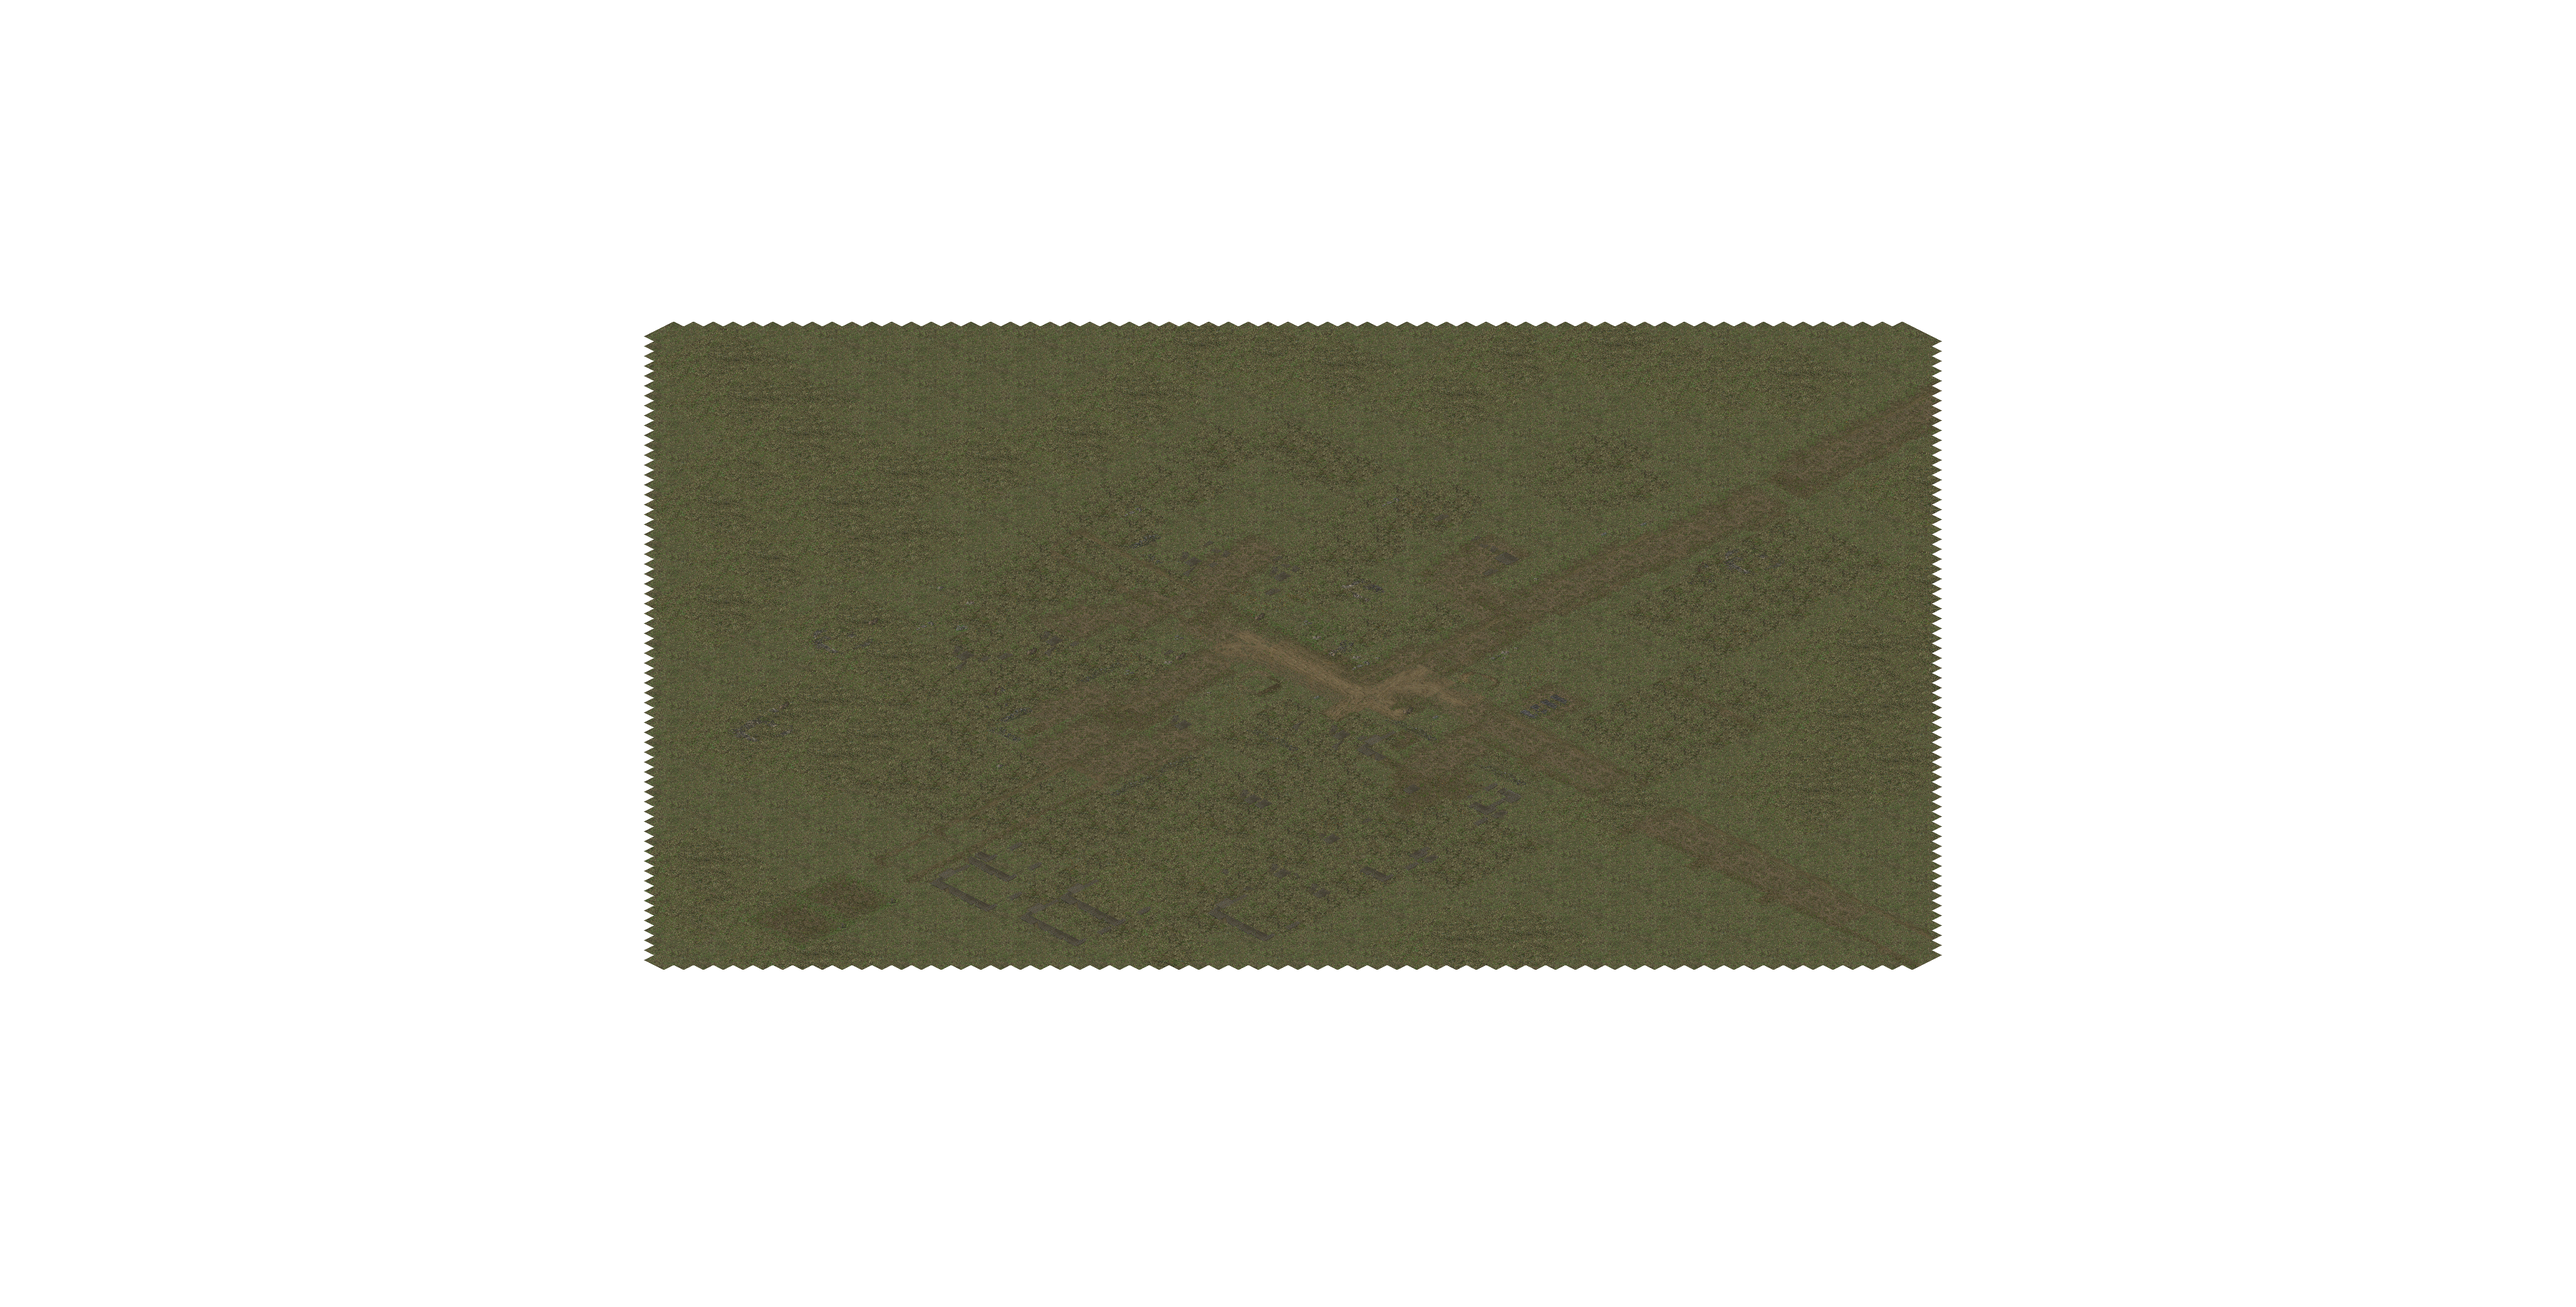
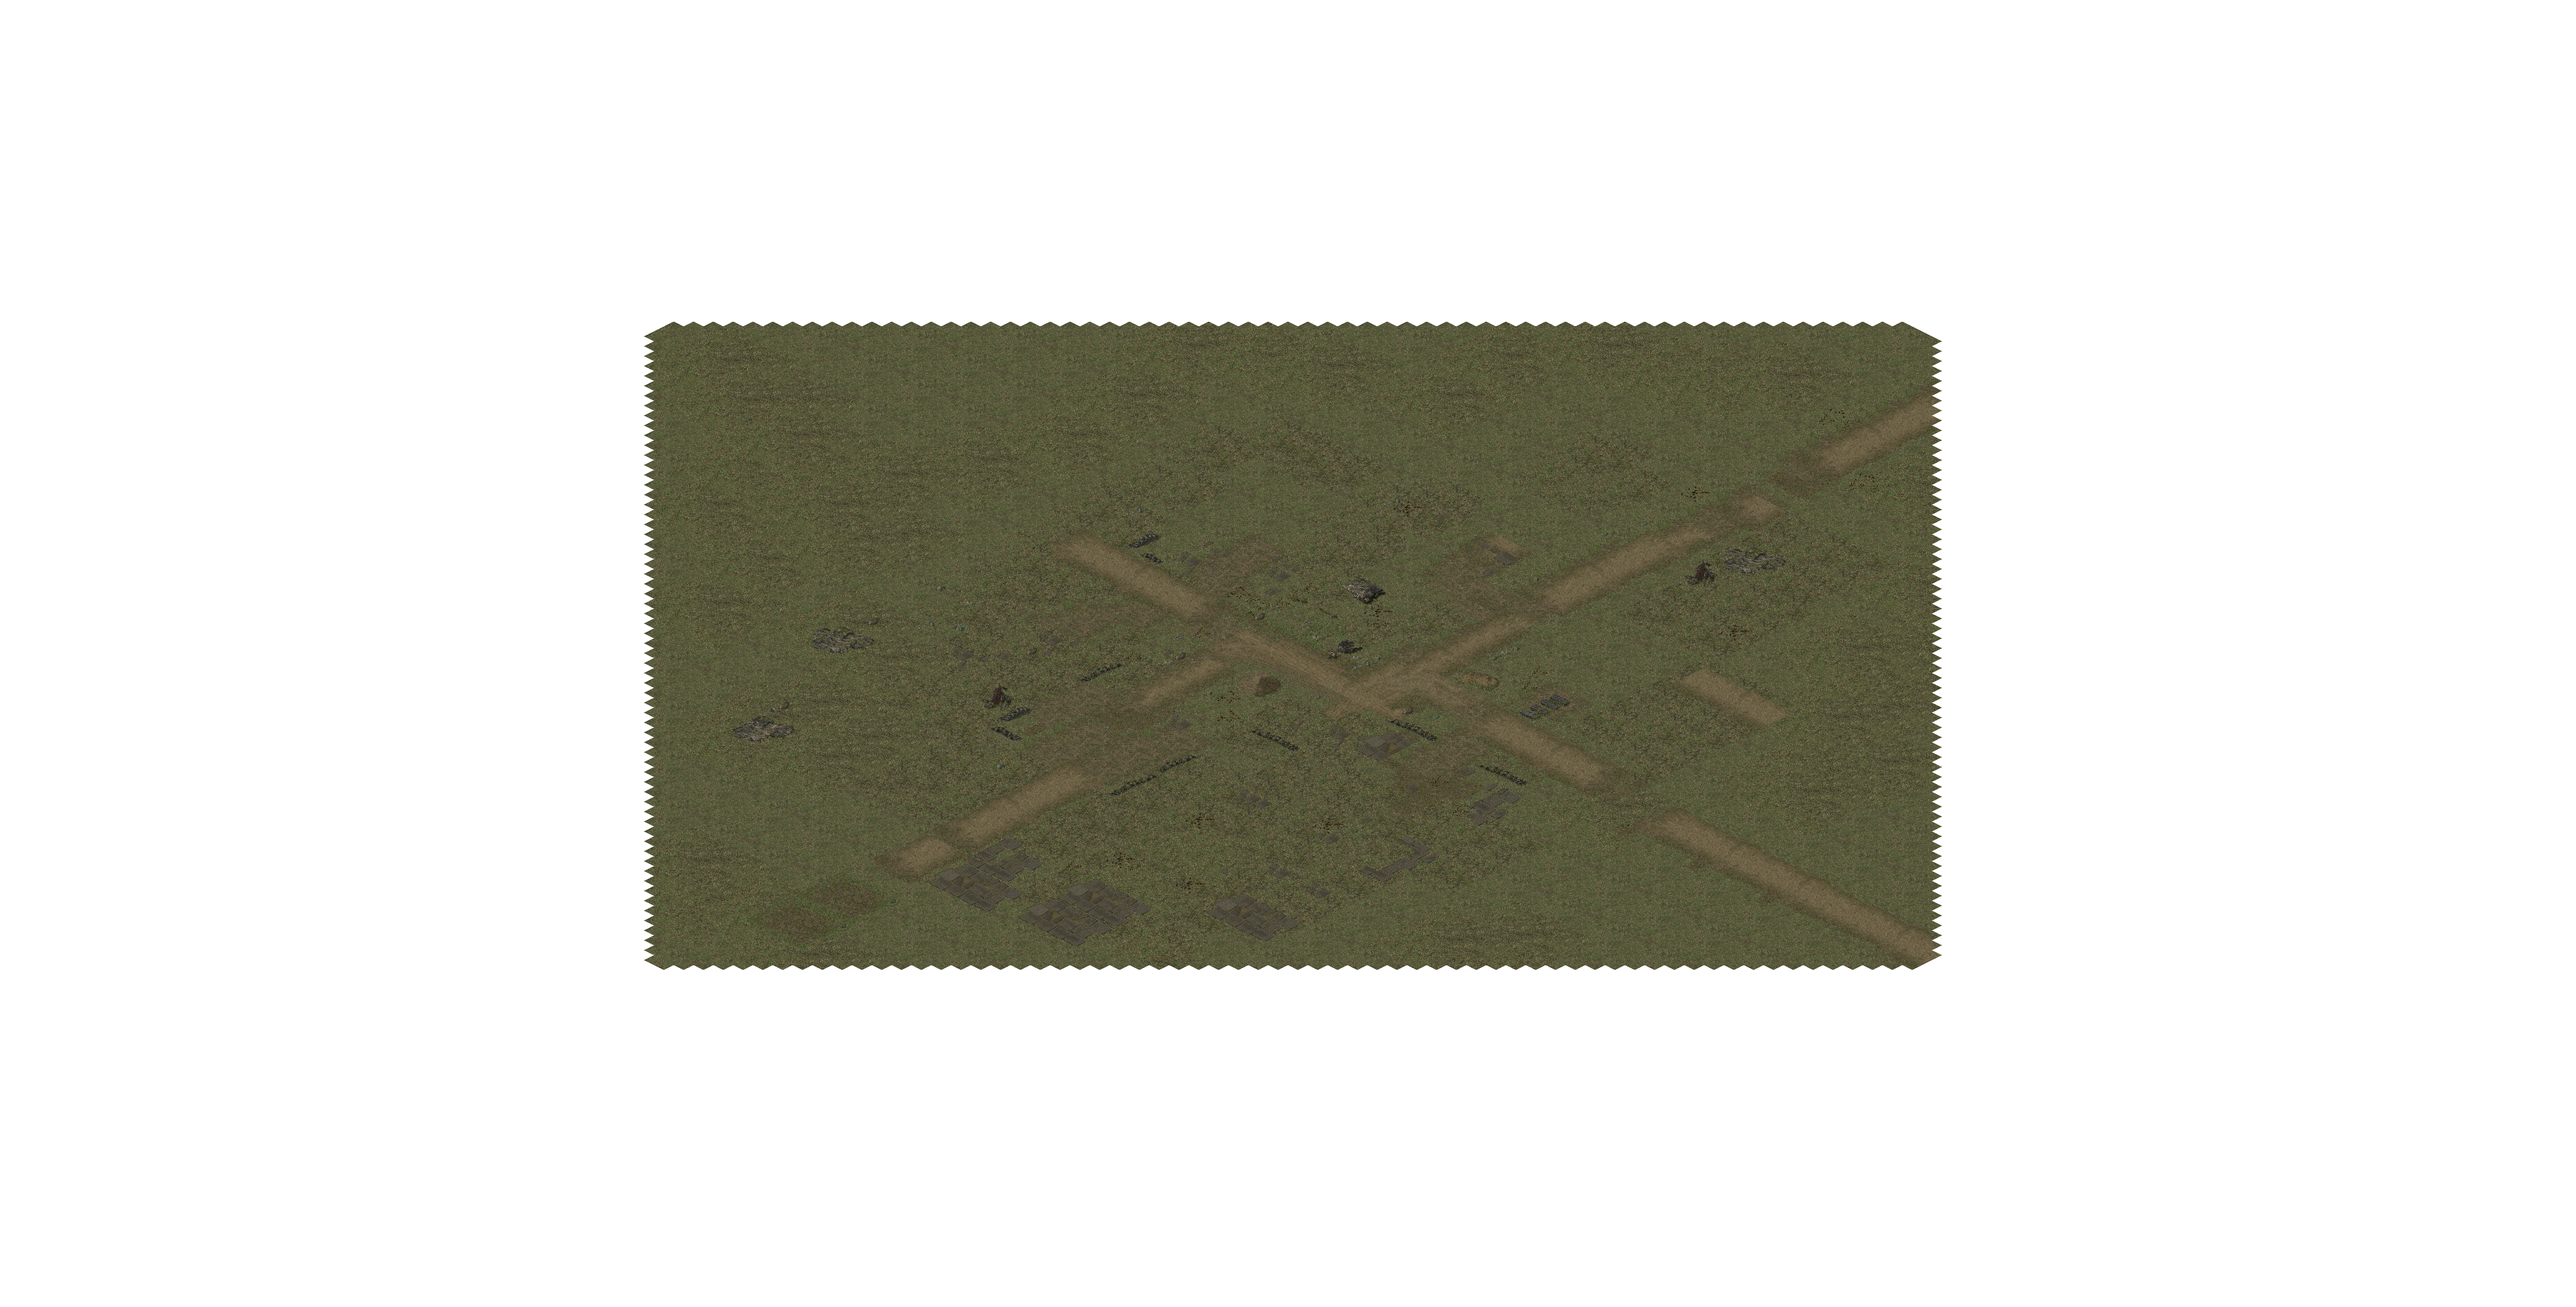
Phase 16c: MAP overlay tiles = plain colour-key alpha-over (Wine-verified); re-composed grounds

diff --git a/PROGRESS.md b/PROGRESS.md
@@ -567,3 +567,31 @@ See assets/samples/xp_compare/COMPARE_NOTES.md — Wine original 瓦当镇 shots
 - **Client:** `?pack=1-2s` (also a toolbar button). Monsters animate idle/walk/attack/hurt/death by direction, show name and HP bar, chase within sight, and respawn 12 s after death.
 - **Shots:** `assets/samples/phase16/web_1-2s_monsters.png`, `web_1-2s_combat.png`. Not yet compared with Wine (1-2s not reached in Wine).
 - **Deploy:** GitHub Pages commit ced17c6 → https://liuzhuoling2011.github.io/djfm-sgcs/ (1-2s meta HTTP 200). NAS deploy OK.
+
+## Phase 16b — HUD: stamina, potions, skills, Q, minimap (2026-10-10 14:14 UTC+8)
+
+- Matched against the Wine HUD (`/tmp/w7.png` 800×600) using masked pixel search over ResJM.Lib.chs:
+  - **Potions:** JM 92 (red) is pixel-exact at (258,572), error 0.1. JM 90 (blue) is exact at (306,572)/(330,572). Slot pitch is 24 px, with yellow key digits 1–4.
+  - **Q skill icon:** JM 63 at (606,551), error 3.7 (the leftover error is the 'Q' text overlay).
+  - **Minimap frame:** JM 1549 (137×133) at (663,0), error 4.7. The scene-name strip sits underneath.
+  - **Orange stamina bar:** spans x255–388, y555–561. No ResJM entry matched (best error 45), so the bar strip is **cropped from Wine** as `hud/stamina_wine.png` and drains from the right. Shift = run (speed 8), which costs stamina.
+- **Gameplay:** keys 1–4 drink potions (red +40 HP, blue +30 MP; counts 5/5/3/3). Q = whirl attack costing 10 MP that hits everything within 2.5 cells. F1/F2 labels are shown; the skills are not implemented.
+- **Minimap:** renders ground_full at 1/8 world scale around the player, with dots: green = player, red = monsters, blue = NPCs. **It does not draw buildings yet**, so it looks plainer than Wine's, and the Wine zoom level is estimated.
+- **Compare images:** `assets/samples/phase16/wine_vs_web_hud.png`, `wine_vs_web_hud_zoom.png` (top: Wine bar; middle: web bar; bottom: minimaps), `web_hud_800.png`, `web_1-2s_hud.png`.
+- **Deploy:** Pages 087ef0a; NAS OK.
+
+## Phase 16c — MAP overlay (col1) blending (2026-10-10 14:16 UTC+8)
+
+- **Method:** `tools/phase16_overlay_blend.py` renders col0 (ground) and col1 (overlay) at full 64×32 pitch at the calibrated Wine cameras (01_gate_rain, 10_pavilion_tower), applies the measured night tint, and scores each blend mode by median absolute error against Wine over the ~105k pixels covered by overlays (HUD excluded). Results are in `assets/samples/phase16/overlay_blend.json`.
+  | mode | gate | pavilion |
+  |---|---|---|
+  | ground only | 15.7 | 14.6 |
+  | **alpha-over (colour key 0xF81F → transparent)** | **6.45** | **6.45** |
+  | Phase 14 black-key (drop <48) | 7.49 | 6.59 |
+  | 50 % | 11.6 | 10.6 |
+  | darken / lighten | 11.4 / 10.5 | 10.4 / 12.5 |
+  | multiply | 37.8 | 30.0 |
+  | additive | 52.8 | 61.8 |
+- Split by tile coverage: full-diamond overlays improve from 14.6→7.5 and 11.2→4.8 when drawn opaque, so **the Phase 14 rule that skipped coverage ≥45 % tiles was wrong**.
+- **Conclusion:** overlay tiles are a plain colour-keyed opaque blit over the ground diamond, with no translucency or special blend mode and no per-tile flag needed. phase14_ground_deco.py and scene_export.py now draw every col1 tile that way. 瓦当镇 now shows Wine's dirt paths and worn patches.
+- **Compare images:** `assets/samples/phase16/wine_vs_model_pavilion_overlay.png`, `wine_vs_model_gate_overlay.png`, `overlay_blend_01_gate_rain.png`, `overlay_blend_10_pavilion_tower.png` (Wine | ground only | best mode).
